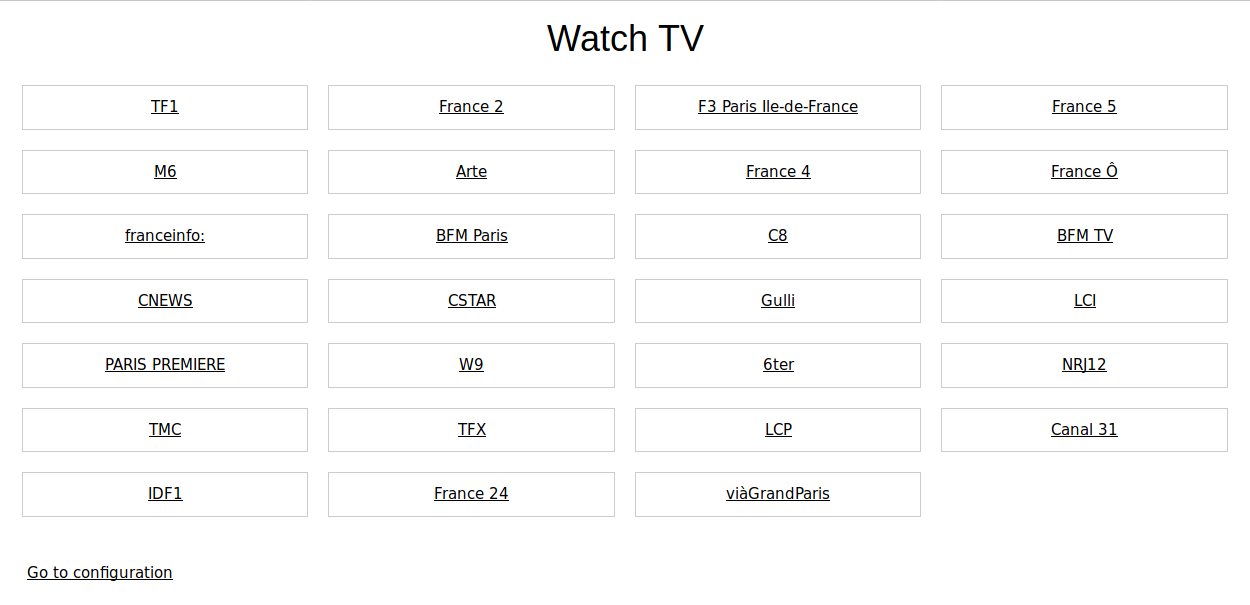
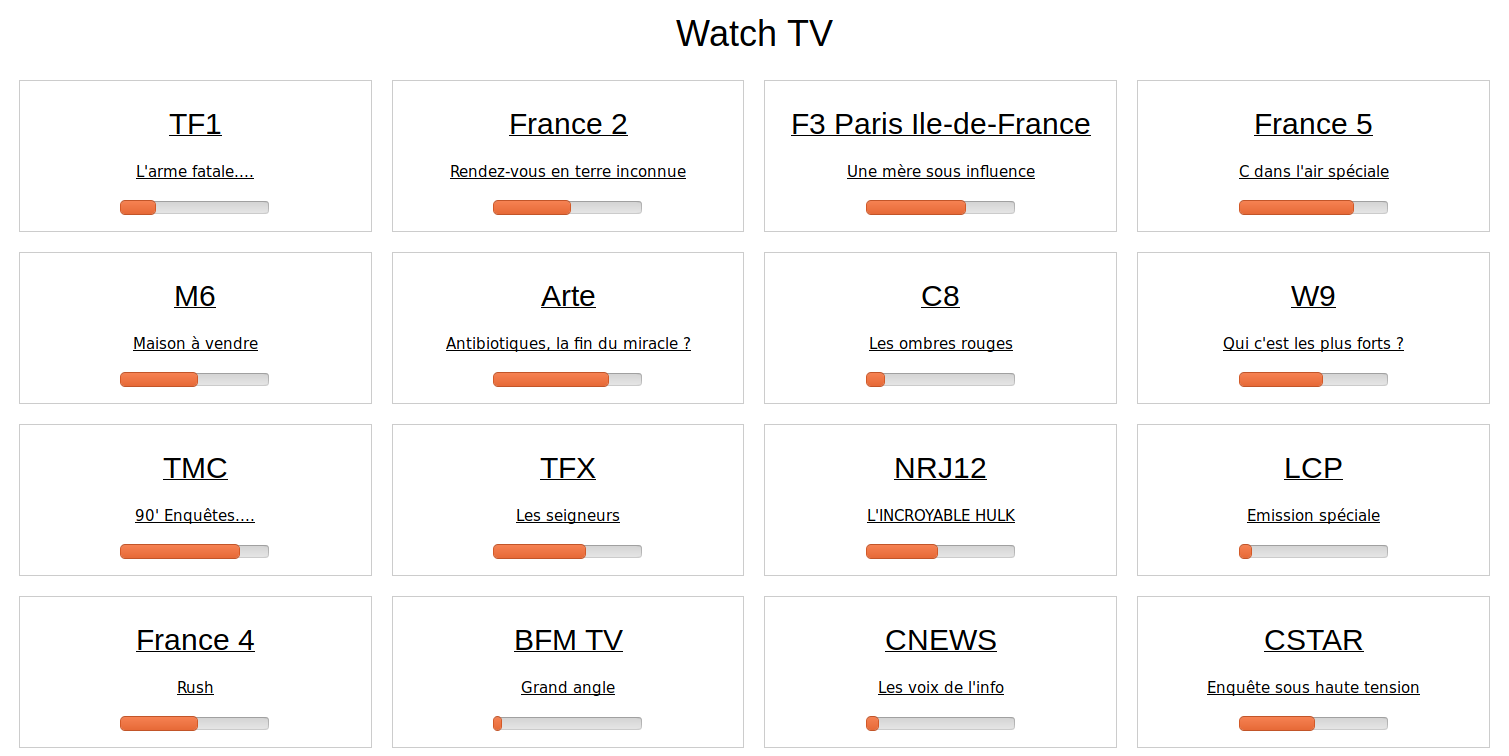
Update doc

diff --git a/readme.md b/readme.md
@@ -6,6 +6,7 @@ This is a small server that allows you to watch digital television on your compu
 ## Features
 * scan and configure TV channels
 * browse your TV channels from a web browser
+* view current EPG while browsing channels
 * stream tv using RTSP 1.0
 * Kodi support, see [below](#kodi)
 * watch simultaneously all channels in the same multiplex
@@ -18,12 +19,14 @@ Use [this map](https://fr.wikipedia.org/wiki/DVB-T#/media/File:Digital_terrestri
 * It may work on other networks (Cable, Satellite, ATSC), but it is yet untested.
 * Please open an issue or merge request to report your success or failure to improve this software. 
 
-## Status
-It is in alpha stage, slow, but should be reliable enough (I've been running a server for weeks without problems).
+## Status - 1.0 milestone
+* It is working and functionnal
+* Needs more testing before stable release
+* Needs packaging for common linux distributions (at least Debian/Raspbian/Ubuntu)
+* Needs DVBV5 stability fixes to be upstreamed
 
-## TODO LIST - Help wanted
-These are ideas, please provide feedback and help:
-* browse electronic program guide (EPG) (easy, just a web page to do, will be next release feature)
+## Ideas for future releases
+* browse whole electronic program guide (EPG) (currently you can just view running EPG)
 * multiple adapter support
 * pause (live recording)
 * scheduled recording
@@ -32,7 +35,6 @@ These are ideas, please provide feedback and help:
 * watch TV directly in the browser with HTTP_Live_Streaming
   * https://en.wikipedia.org/wiki/HTTP_Live_Streaming
   * https://tools.ietf.org/html/rfc8216
-* packaging for common linux distributions
 
 ## Requirements
 You can run the server and the client on the same device if you want.
@@ -60,6 +62,7 @@ You can run the server and the client on the same device if you want.
 This is compatible with raspberry pi, but note that there is a bug that WILL crash your raspberry sooner or later. Please wait for bug resolution before using this on your raspberries: [bug report](https://bugs.launchpad.net/raspbian/+bug/1819650)
 
 A raspberry zero-w is enough, although I recommend you something more reliable:
+* the raspberry zero will be pushed at it's own limits (expect 80% to 100% CPU)
 * it has wifi only (you may try USB attached ethernet adapter)
 * some TV dongles require a lot of current, and some power supplies don't handle this corectly
 * Raspberry pi does not have a reliable wifi (at least raspberry-zero and raspberry 3B have wifi troubles - raspberry 3B+ seems not to be affected). Discussion [here](https://www.raspberrypi.org/forums/viewtopic.php?f=28&t=188891&sid=afdef6524bddc08ec983fe57bb3a797c) and [here](https://www.raspberrypi.org/forums/viewtopic.php?f=36&t=234058)
@@ -78,7 +81,7 @@ A raspberry zero-w is enough, although I recommend you something more reliable:
 2. Download latest release package from https://github.com/phpbg/watchtv/releases
 3. Extract it
     ```shell
-    $ tar xf watchtv-0.3.0.tar.gz
+    $ tar xf watchtv-0.6.0.tar.gz
     ```
 3. Test the server manually
     ```shell
@@ -132,6 +135,7 @@ After cloning the project run:
 
 Build a release
 
+    #Make sure log level is set to INFO in server.php
     composer install --no-dev --optimize-autoloader
     cd ..
-    tar --exclude='watchtv/.git' --exclude='watchtv/.idea' -czf watchtv.tar.gz watchtv/
+    tar --exclude='watchtv/.git' --exclude='watchtv/.idea' --exclude='watchtv/channels.conf' -czf watchtv.tar.gz watchtv/
